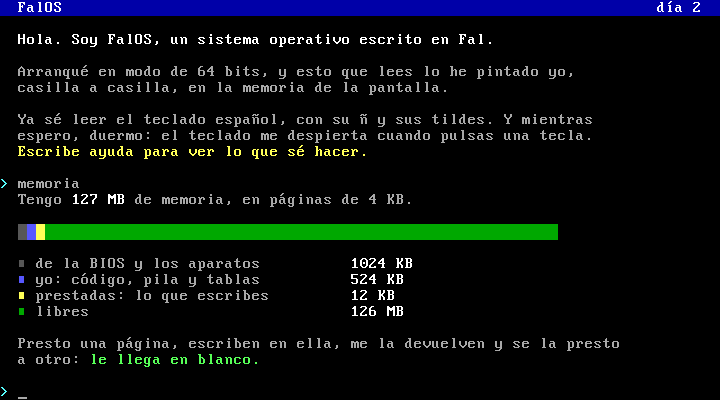
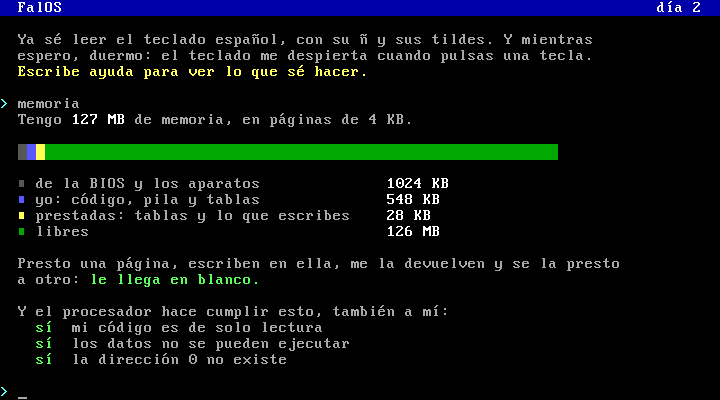
Dia 2: FalOS monta sus propias tablas de paginas, con su codigo de solo lectura y los datos sin poder ejecutarse

diff --git a/DIARIO.md b/DIARIO.md
@@ -30,10 +30,26 @@ blanco. Y devolver dos veces la misma página para el sistema en seco, con la
 pantalla roja: en C, ese descuido es uno de los agujeros de seguridad más
 conocidos.
 
+**Y el procesador vigila.** Al final del día, una cosa más: FalOS monta sus
+propias tablas de páginas, la lista que el procesador consulta en cada acceso
+a memoria para saber qué se puede hacer con cada página. Con ellas:
+
+- su propio código es de solo lectura, y nadie lo puede cambiar mientras
+  corre, ni siquiera FalOS;
+- los datos no se pueden ejecutar, que es la defensa contra el truco clásico
+  de colar código en la memoria y saltar a él;
+- la dirección 0 no existe.
+
+![Escribir encima del código](capturas/dia-2-solo-lectura.png)
+
+No es una comprobación de FalOS: la hace el procesador, en cada acceso, sin
+coste. Es lo mismo que hacen Windows y Linux.
+
 **Lo que costó.** El dato de dónde está esa lista llega en un registro, y el
 arranque lo pisaba antes de mirarlo: Fal ha tenido que aprender a guardarlo.
-Y la pantalla roja de los errores ponía "p?gina": no sabía escribir tildes.
-Ahora sí.
+La pantalla roja de los errores ponía "p?gina": no sabía escribir tildes.
+Y para que el procesador haga cumplir el "solo lectura" al propio núcleo hay
+que encenderle un bit aparte; sin él, el núcleo se lo salta.
 
 ## Día 1: arrancar, escribir en la pantalla, leer el teclado y dormir
 

diff --git a/README.md b/README.md
@@ -45,9 +45,13 @@ colores y tildes, lee el teclado español con AltGr y entiende unas pocas
 abajo traen las órdenes de antes.
 
 Sabe cuánta memoria tiene y la reparte en páginas de 4 KB, que entrega
-siempre borradas. El teclado y el reloj avisan por interrupciones, así que
-mientras espera, el procesador duerme. Cada vez que se sube algo, GitHub lo
-arranca en QEMU y comprueba que llega a esperar órdenes sin reventar.
+siempre borradas. Monta sus propias tablas de páginas: su código es de solo
+lectura, los datos no se pueden ejecutar y la dirección 0 no existe, y eso
+lo hace cumplir el procesador.
+
+El teclado y el reloj avisan por interrupciones, así que mientras espera, el
+procesador duerme. Cada vez que se sube algo, GitHub lo arranca en QEMU y
+comprueba que llega a esperar órdenes sin reventar.
 
 La idea a la que se quiere llegar es un **micronúcleo con capacidades**, como
 [seL4](https://sel4.systems): un núcleo pequeño que casi no hace nada, y cada
